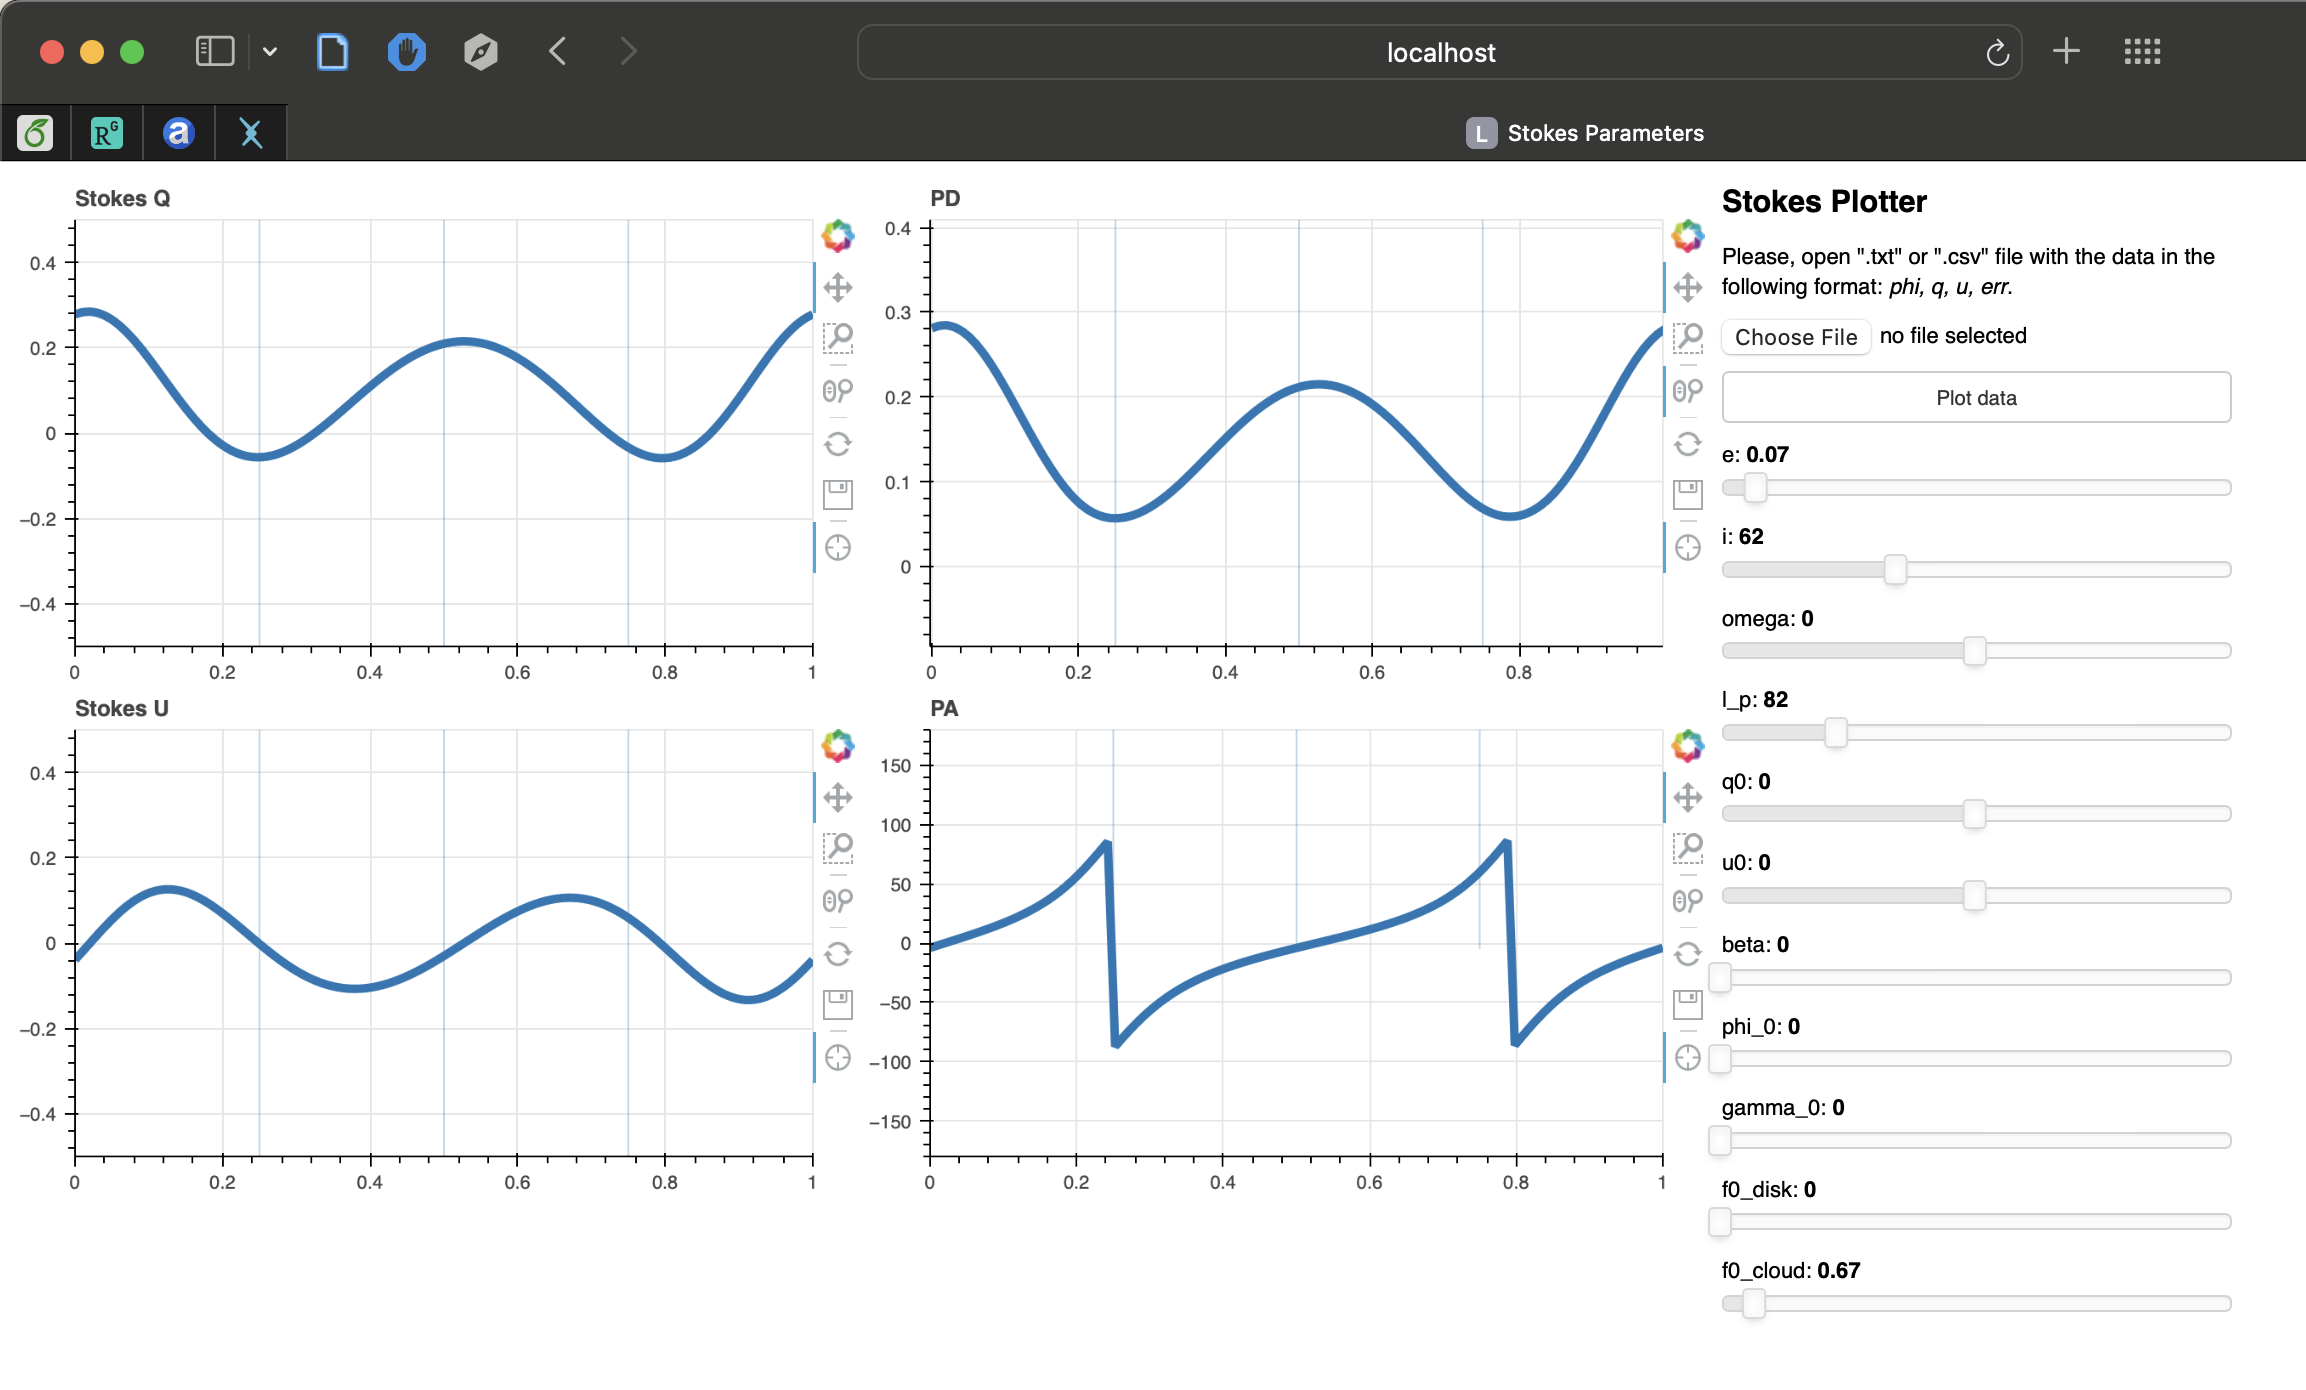
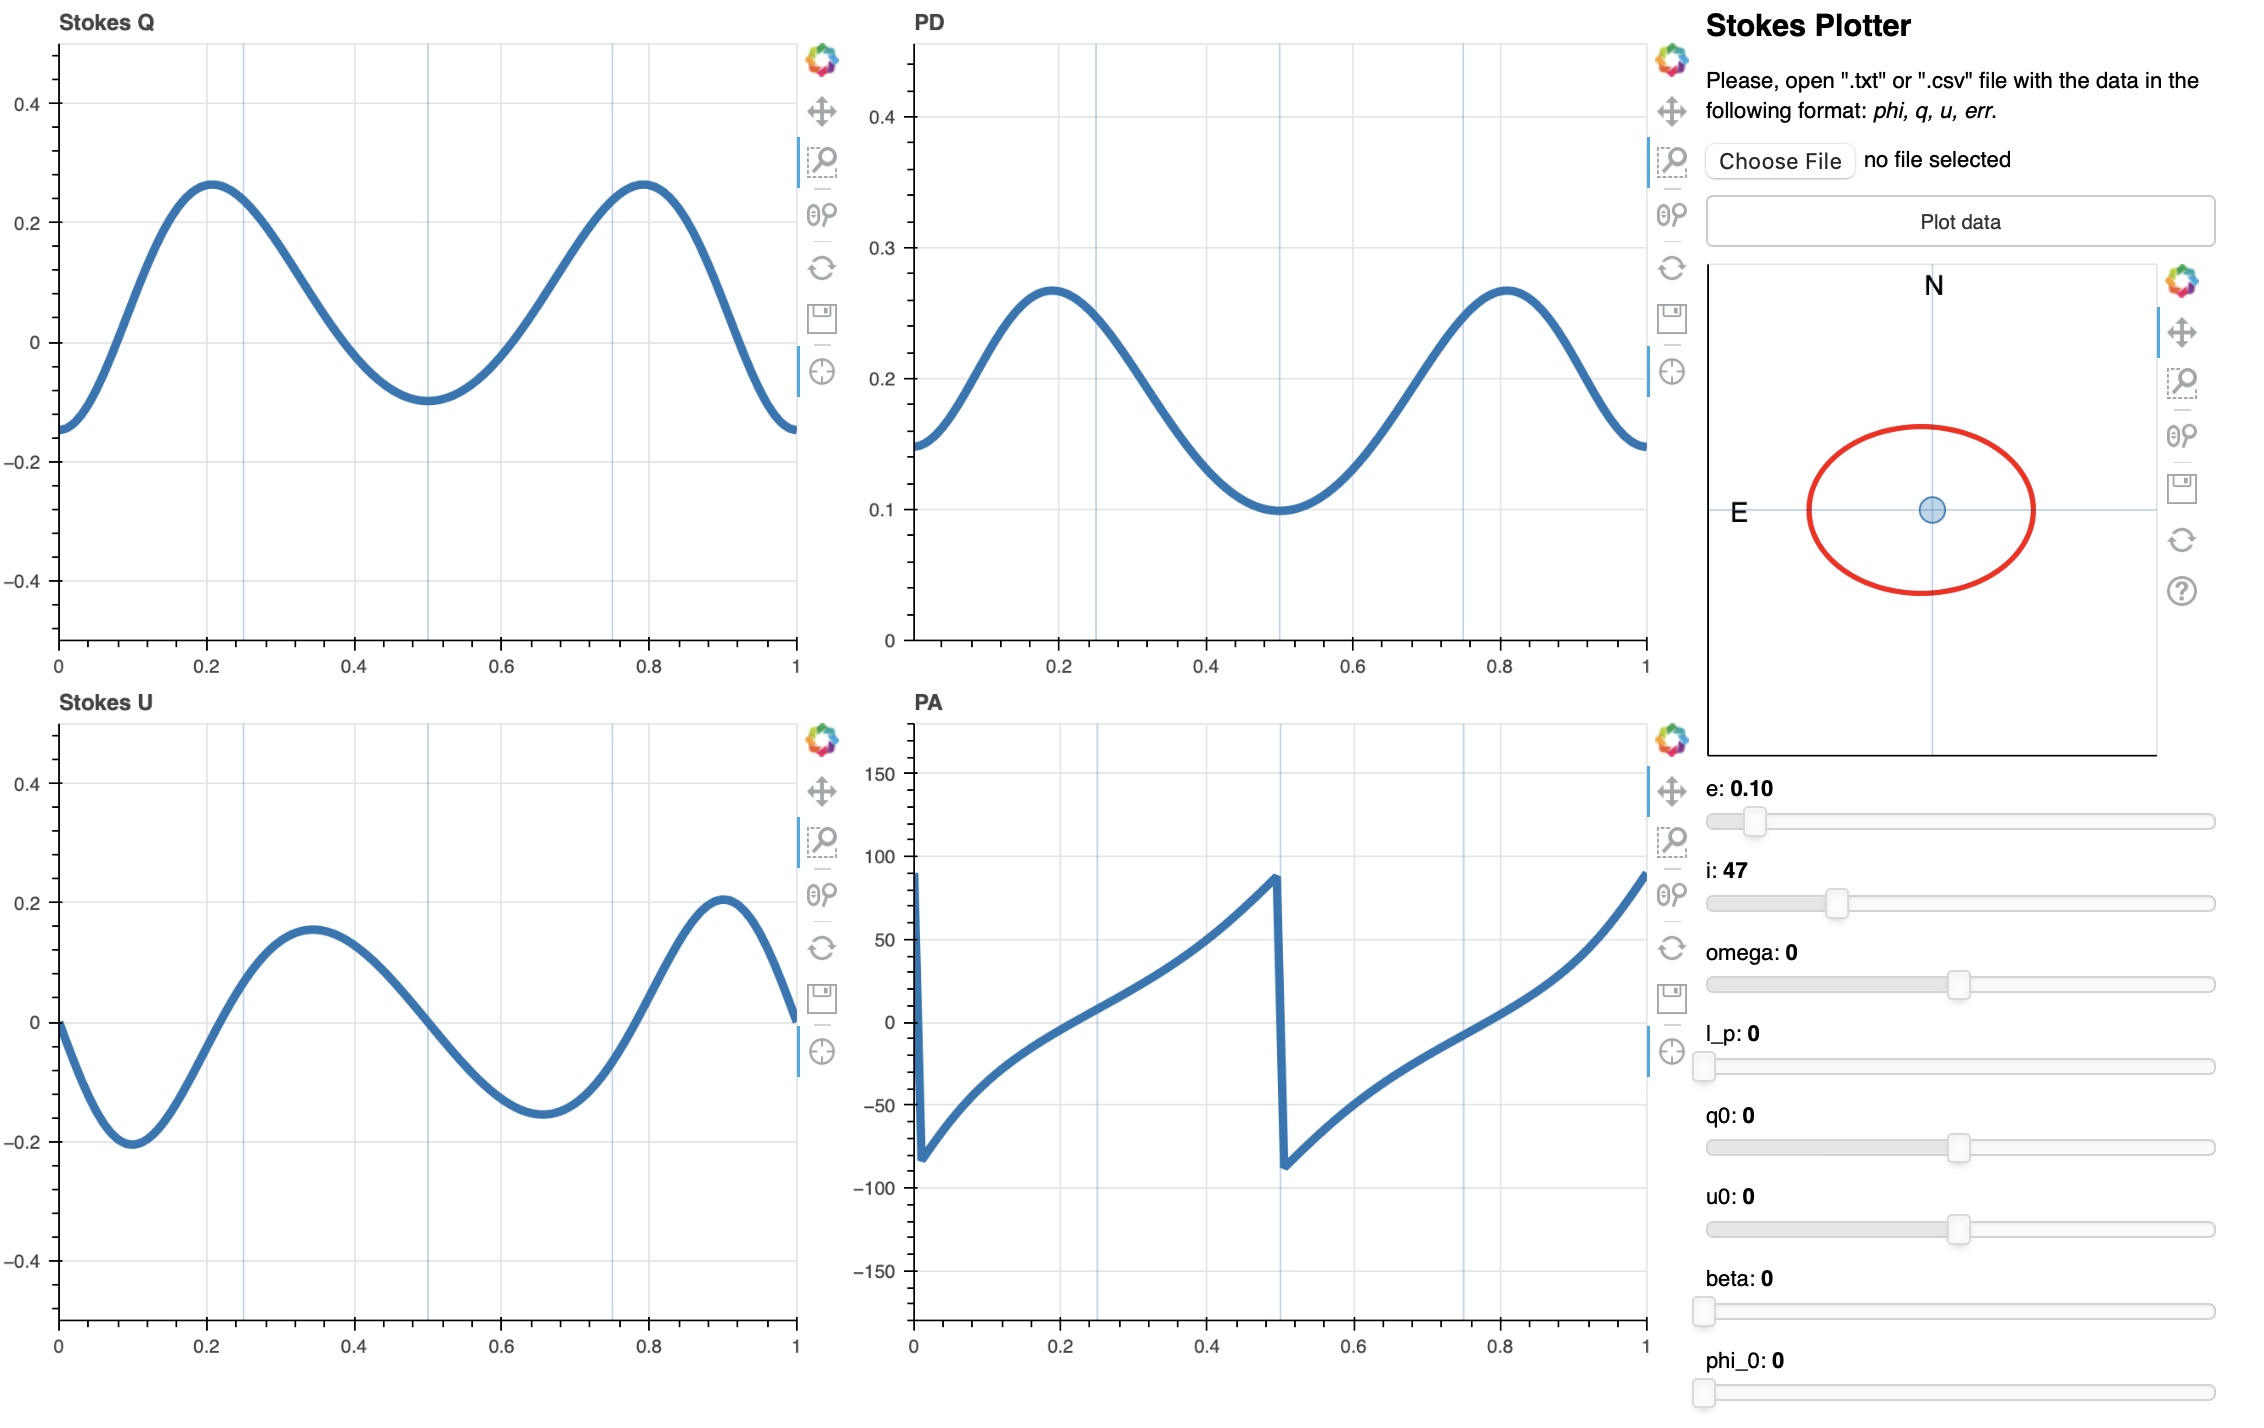
add orbit plot

diff --git a/precessing_disk.py b/precessing_disk.py
@@ -9,16 +9,14 @@ from numpy import mean, pi, cos, sin, array, sqrt, arctan2, tan, abs
 from bokeh.io import curdoc
 from bokeh.layouts import row, column
 from bokeh.plotting import figure
-from bokeh.models import LinearColorMapper
+from bokeh.models import LinearColorMapper, PolarTransform
 import pickle
 import pandas as pd
 
 from bokeh.models import ColumnDataSource, BoxZoomTool, CrosshairTool, ResetTool
-from bokeh.models import SaveTool, PanTool, FileInput, Div, DataTable, TableColumn
+from bokeh.models import SaveTool, PanTool, FileInput, Div, DataTable, TableColumn, FixedTicker
 from bokeh.models.widgets import Slider, TextInput, Button
 from sqlalchemy import null
-
-# from plotter import bin_not_data, bin_t60_data
 
 # Parameters of the model (angles in degrees)
 
@@ -33,9 +31,6 @@ q0          = 0     # constant level of Q
 u0          = 0     # constant level of U
 f0_disk     = 0     # typical scattering fraction of the disk
 f0_cloud    = 0.5     # typical scattering fraction of the cloud
-
-# P_orb       = 5.59983     # orbital period
-# P_sup       = 13*P_orb    # superorbital period
 
 rad = np.pi/180.0
 
@@ -55,9 +50,6 @@ def errorbar(fig, x, y, xerr=None, yerr=None, color='red',
              
     fig.circle(x, y, color=color, **point_kwargs)
 
-#   x = np.array(x)
-#   y = np.array(y)
-#   xerr = np.array()
     y_err_x = []
     y_err_y = []
     for px, py, err in zip(x, y, yerr):
@@ -73,13 +65,14 @@ def calc_lambda_from_phi(phi, e, l_p, phi_0):
         E = M + e*sin(E)
     return 2. * arctan2(sqrt(1. + e) * tan(E/2.), sqrt(1. - e)) + l_p
 
-    
+ 
 def thomson_model(phi, phi_sup, e, i, Omega, beta, l_p, phi_0, gamma_0, q0, u0, f0_disk, f0_cloud):
     l = calc_lambda_from_phi(phi, e, l_p, phi_0)
     
     gamma = 2*pi*phi_sup + gamma_0
     cos_Psi = sin(l)*sin(beta)*sin(gamma) + cos(l)*sin(beta)*cos(gamma)
     cos_Sigma = cos(i)*cos(beta) + sin(i)*sin(beta)*cos(gamma)
+    
     
     f0_disk_array = []
 
@@ -141,46 +134,38 @@ def thomson_model(phi, phi_sup, e, i, Omega, beta, l_p, phi_0, gamma_0, q0, u0, 
 def disk_and_cloud_q(l, l_p, i, e, f0_disk_array, f0_cloud, cos_Psi, cos_Sigma):
     f_sc_disk = f0_disk_array * (1 + e * cos(l - l_p))**2 * abs(cos_Psi)
     f_sc_cloud = f0_cloud * (1 + e * cos(l - l_p))**2
-    return 3./16. * (sin(i)**2 - (1. + cos(i)**2) * cos(2.*l))*(f_sc_cloud + (1. - f_sc_cloud)*f_sc_disk)
+    return 3./16. * (sin(i)**2 - (1. + cos(i)**2) * cos(2.*l))*(f_sc_cloud + f_sc_disk)
     
     
 def disk_and_cloud_u(l, l_p, i, e, f0_disk_array, f0_cloud, cos_Psi, cos_Sigma):
     f_sc_disk = f0_disk_array * (1 + e * cos(l - l_p))**2 * abs(cos_Psi)
     f_sc_cloud = f0_cloud * (1 + e * cos(l - l_p))**2
-    return - 3./8. * cos(i)*sin(2.*l) * (f_sc_cloud + (1. - f_sc_cloud)*f_sc_disk)
+    return - 3./8. * cos(i)*sin(2.*l) * (f_sc_cloud + f_sc_disk)
 
             
 def main(): 
-# phi = original_dataframe.data['phi']
-# phi_sup = np.zeros(len(phi))
-
-# print(phi)
     npoints = 100
     rad = np.pi/180
     phi = np.linspace(0, 1, npoints)
     phi_sup = np.zeros(npoints)
     q, u = thomson_model(phi, phi_sup, e, i*rad, Omega*rad, beta*rad, l_p*rad, phi_0, gamma_0, q0, u0, f0_disk, f0_cloud)
-# q += 0.4
-# u += -4.5
+
     p = np.sqrt(q**2 + u**2)
     pa = 0.5*np.arctan2(u, q)*180/np.pi
     
     source = ColumnDataSource(data=dict(x=phi, q=q, u=u, p=p, pa=pa))
 
 
-# Set up plot
-    plotQ = figure(plot_height=300, plot_width=500, title="my sine wave",
+    # Set up plots
+    plotQ = figure(plot_height=400, plot_width=500, title="my sine wave",
               tools="crosshair,pan,reset,save,wheel_zoom, box_zoom",
               x_range=[0, 1], y_range=[-0.5, 0.5])
-
-
-# plotQ.scatter('x', 'q', source=source, line_width=1, line_alpha=1)
 
     plotQ.ray(x=[0.25], y=-5, length=10, angle=pi/2, line_width=1, alpha=0.3)
     plotQ.ray(x=[0.50], y=-5, length=10, angle=pi/2, line_width=1, alpha=0.3)
     plotQ.ray(x=[0.75], y=-5, length=10, angle=pi/2, line_width=1, alpha=0.3)
 
-    plotU = figure(plot_height=300, plot_width=500, title="my sine wave",
+    plotU = figure(plot_height=400, plot_width=500, title="my sine wave",
                tools="crosshair,pan,reset,save,wheel_zoom, box_zoom",
                x_range=[0, 1], y_range=[-0.5, 0.5])
 
@@ -189,7 +174,7 @@ def main():
     plotU.ray(x=[0.75], y=-5, length=10, angle=pi/2, line_width=1, alpha=0.3)
 
     
-    plotP = figure(plot_height=300, plot_width=500, title="PD",
+    plotP = figure(plot_height=400, plot_width=500, title="PD",
                tools="crosshair,pan,reset,save,wheel_zoom, box_zoom",
                x_range=[0, 1], y_range=[0, 10])
 
@@ -198,24 +183,54 @@ def main():
     plotP.ray(x=[0.75], y=-5, length=10, angle=pi/2, line_width=1, alpha=0.3)
 
 
-    plotPA = figure(plot_height=300, plot_width=500, title="PD",
+    plotPA = figure(plot_height=400, plot_width=500, title="PD",
                tools="crosshair,pan,reset,save,wheel_zoom, box_zoom",
                x_range=[0, 1], y_range=[-180, 180])
 
-    plotPA.ray(x=[0.25], y=-5, length=10, angle=pi/2, line_width=1, alpha=0.3)
-    plotPA.ray(x=[0.50], y=-5, length=10, angle=pi/2, line_width=1, alpha=0.3)
-    plotPA.ray(x=[0.75], y=-5, length=10, angle=pi/2, line_width=1, alpha=0.3)
+    plotPA.ray(x=[0.25], y=-205, length=1000, angle=pi/2, line_width=1, alpha=0.3)
+    plotPA.ray(x=[0.50], y=-205, length=1000, angle=pi/2, line_width=1, alpha=0.3)
+    plotPA.ray(x=[0.75], y=-205, length=1000, angle=pi/2, line_width=1, alpha=0.3)
     
     
     plotQU = figure(plot_height=300, plot_width=500, title="QU",
               tools="crosshair,pan,reset,save,wheel_zoom, box_zoom",
               x_range=[-1, 1], y_range=[-1, 1])
 
-# plotQU.scatter('q', 'u', source=source, line_width=1, line_alpha=1)
     plotQ.line('x', 'q', source=source, line_width=5, line_alpha=1)
     plotU.line('x', 'u', source=source, line_width=5, line_alpha=1)
     plotP.line('x', 'p', source=source, line_width=5, line_alpha=1)
     plotPA.line('x', 'pa', source=source, line_width=5, line_alpha=1)
+
+    plotOrbit = figure(plot_height=300, plot_width=300,
+                       x_range=[-2, 2], y_range=[-2, 2])
+    
+    plotOrbit.scatter(x=[0], y=[0], marker='circle', size=15, fill_alpha=0.3)
+    plotOrbit.text(x=[0 - 0.07], y=[1.7], text=['N'])
+    plotOrbit.text(x=[-1.8], y=[-0.15], text=['E'])
+    
+        
+    def calc_ellipse(e, omega, incl):
+        angles_ellipse = np.linspace(0, 2*np.pi, 200)
+        ellipse = (1.0 - e**2) / (1.0 + e*np.cos(angles_ellipse))
+        xp = ellipse*np.cos(angles_ellipse)
+        yp = ellipse*np.sin(angles_ellipse)
+        
+        xp = xp
+        yp = yp*np.cos(incl)
+        
+        x = xp * np.cos(omega) - yp * np.sin(omega)
+        y = xp * np.sin(omega) + yp * np.cos(omega)
+        
+        return {'x':x, 'y':y}
+        
+    
+    ellipse_df = ColumnDataSource(calc_ellipse(e, Omega, i))
+    
+    plotOrbit.line(x='x', y='y', source=ellipse_df, line_width=3, color='red')
+    plotOrbit.xaxis[0].ticker=FixedTicker(ticks=[])
+    plotOrbit.yaxis[0].ticker=FixedTicker(ticks=[])
+    plotOrbit.ray(x=-10, y=0, length=30, angle=0, line_width=1, alpha=0.3)
+    plotOrbit.ray(x=0, y=-10, length=30, angle=pi/2, line_width=1, alpha=0.3)
 
     global original_dataframe
     original_dataframe = ColumnDataSource({'phi': [], 'q' : [], 'u' : [], 'error' : []})
@@ -239,22 +254,28 @@ def main():
             print(original_dataframe.data)
         
             min_y, max_y = min(original_dataframe.data['q']), max(original_dataframe.data['q'])
-            plotQ.y_range.start = min_y - 0.1*(max_y - min_y)
-            plotQ.y_range.end = max_y + 0.1*(max_y - min_y)
+            plotQ.y_range.start = min_y - 0.5*(max_y - min_y)
+            plotQ.y_range.end = max_y + 0.5*(max_y - min_y)
             errorbar(plotQ, original_dataframe.data['phi'], original_dataframe.data['q'], yerr = np.array(original_dataframe.data['error']), color='red')
             
             min_y, max_y = min(original_dataframe.data['u']), max(original_dataframe.data['u'])
-            plotU.y_range.start = min_y - 0.1*(max_y - min_y)
-            plotU.y_range.end = max_y + 0.1*(max_y - min_y)
+            plotU.y_range.start = min_y - 0.5*(max_y - min_y)
+            plotU.y_range.end = max_y + 0.5*(max_y - min_y)
             errorbar(plotU, original_dataframe.data['phi'], original_dataframe.data['u'], yerr = np.array(original_dataframe.data['error']), color='red')
             
             p_obs = np.sqrt(original_dataframe.data['q']**2 + original_dataframe.data['u']**2)
             pa = 0.5*np.arctan2(original_dataframe.data['u'], original_dataframe.data['q'])*180/np.pi
             
             min_y, max_y = min(p_obs), max(p_obs)
-            plotP.y_range.start = min_y - 0.1*(max_y - min_y)
-            plotP.y_range.end = max_y + 0.1*(max_y - min_y)
+            plotP.y_range.start = min_y - 0.5*(max_y - min_y)
+            plotP.y_range.end = max_y + 0.5*(max_y - min_y)
             errorbar(plotP, original_dataframe.data['phi'], p_obs, yerr = np.array(original_dataframe.data['error']), color='red')
+               
+            min_y, max_y = min(pa), max(pa)
+            plotPA.y_range.start = min_y - 0.5*(max_y - min_y)
+            plotPA.y_range.end = max_y + 0.5*(max_y - min_y)
+            
+            errorbar(plotPA, original_dataframe.data['phi'], pa, yerr = 180/np.pi*np.array(original_dataframe.data['error'])/(2*p_obs), color='red')
             
         except ValueError:
             errors_div.text = 'Error: open the data file first!'
@@ -264,7 +285,7 @@ def main():
     file_input.on_change('filename', file_input_handler)
    
 
-# Set up widgets
+    # Set up widgets
     e_slider          = Slider(title="e", value=e, start=0, end=1.0, step=0.01)
     i_slider          = Slider(title="i", value=i, start=0, end=180, step=1)
     omega_slider      = Slider(title="omega", value=Omega, start=-180, end=180, step=1)
@@ -276,17 +297,17 @@ def main():
     gamma_0_slider    = Slider(title="gamma_0", value=gamma_0, start=0, end=360, step=1)
     f0_disk_slider    = Slider(title="f0_disk", value=f0_disk, start=0, end=10.0, step=0.01)
     f0_cloud_slider   = Slider(title="f0_cloud", value=f0_cloud, start=0, end=10.0, step=0.01)
-# p_sup_frac_slider = Slider(title="p_sup_in_orb", value=P_sup/P_orb, start=1, end=100, step=1)
-# multiplier_slider = Slider(title="p_sup_mult", value=1, start=1, end=101, step=100)
 
     data_plot_button = Button(label='Plot data')
     data_plot_button.on_click(plot_data)
-# Set up callbacks
+    
     plotQ.title.text = 'Stokes Q'
     plotU.title.text = 'Stokes U'
     plotP.title.text = 'PD'
     plotPA.title.text = 'PA'
 
+    # Set up callbacks
+    
     def update_data(attrname, old, new):
 
         # Get the current slider values
@@ -307,6 +328,7 @@ def main():
         p = np.sqrt(q**2 + u**2)
         pa = 0.5*np.arctan2(u, q)*180/np.pi
         source.data = dict(x=phi + phi_0, q=q, u=u, p=p, pa=pa)
+        ellipse_df.data = calc_ellipse(e, Omega, i)
         
 
     for w in [e_slider, i_slider ,omega_slider, lp_slider, q0_slider, u0_slider,
@@ -322,7 +344,7 @@ def main():
     instructions = Div(text="""Please, open ".txt" or ".csv" file with the data in the following format: <i>phi, q, u, err</i>.""")
     
     
-    inputs = column(logo, instructions, file_input, data_plot_button, e_slider, i_slider ,omega_slider, lp_slider, q0_slider, u0_slider,
+    inputs = column(logo, instructions, file_input, data_plot_button, plotOrbit, e_slider, i_slider ,omega_slider, lp_slider, q0_slider, u0_slider,
                 beta_slider, phi_0_slider, gamma_0_slider, f0_disk_slider, f0_cloud_slider)
 
     curdoc().add_root(row(column(plotQ, plotU, width=500), 
